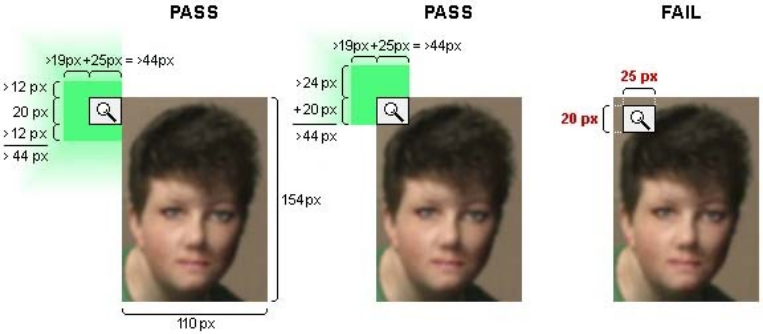
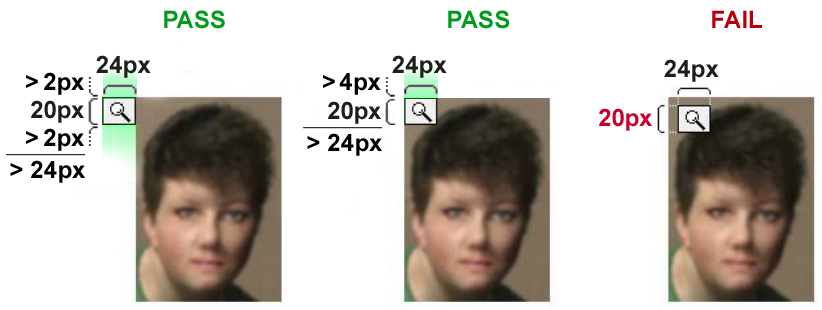
Pointer target spacing update (#1608)
* Update pointer-target-spacing.html

* Updating the intent onwards.

* Delete pointer-target-example1.png

* Delete pointer-target-example2.png

* Delete pointer-target-example3.png

* Delete pointer-target-example4.png

* Delete pointer-target-example5.png

* Add files via upload

* Update pointer-target-spacing.html

* Delete pointer-target-example5.png

* Add files via upload

* Update pointer-target-spacing.html

* Delete pointer-target-example3.png

* Add files via upload

* Update pointer-target-spacing.html

* Update pointer-target-spacing.html

* Delete pointer-target-example4.png

* Add files via upload

* Adding research link

* Updated wrong file

* Adding research link

* Minor editorial from #1456

* Adding detlev's images/captions.

* removed duplicate sentence

Removed duplicate of "The requirement is independent of the zoom factor ..."

* authors -> author's

* Delete pointer-target-example5.png

Replacing image pointer-target-example5.png with an updated version

* update fig ...example5.png

improved version of illustration pointer-target-example5.png

* Updated last example image.

* Update pointer-target-spacing.html

* Update pointer-target-spacing.html

* Update pointer-target-spacing.html

* Update pointer-target-spacing.html

* Update pointer-target-spacing.html

* Pointer target spacing - Wilco update (#1645)

* Wilco's suggestions from survey

* Updating SC file

* Removed nested bullet

* Listing grammar

* Update pointer-target-spacing.html
[…]

diff --git a/understanding/22/pointer-target-spacing.html b/understanding/22/pointer-target-spacing.html
@@ -20,74 +20,72 @@
             <h4>Pointer Target Spacing</h4>
     
             <p class="conformance-level">AA</p>
-            <p class="change">New</p>
+             <p class="change">New</p>
             
-            <p>For each <a href="https://www.w3.org/TR/WCAG21/#dfn-target">target</a>, there is an area with a width and height of at least 44 CSS pixels that includes it, and no other targets, except when:</p>
+            <p><a>Targets</a> have an area of at least 24 by 24 CSS pixels, except if:</p>
             <ul>
-                <li><strong>Enlarge:</strong> A mechanism is available to change the CSS pixel size of each target, or its spacing, so there is an area with a width and height of at least 44 CSS pixels that includes it, and no other targets;</li>
+                <li><strong>Spacing:</strong> The offset between adjacent targets is at least 24 CSS pixels, where the offset is measured from the farthest point of one target to the nearest point of each adjacent target including spacing;</li>
                 <li><strong>Inline:</strong> The target is in a sentence or block of text;</li>
-                <li><strong>User agent:</strong> The size of the target is controlled by the user agent and is not modified by the author;</li>
                 <li><strong>Essential:</strong> A particular presentation of the target is essential to the information being conveyed.</li>
             </ul>
-            <p class="note">This criterion has been formulated to make it less likely that users accidentally hit a target adjacent to the one they intend to hit. The group would like feedback from providers of touch-screen devices if there is another way of forming the criterion to better complement the tap-heuristics used.</p>
-            <p class="note">Are there issues with internationalization when describing inline links?</p>
-            <p class="note">Are there issues with pop-over content overlapping targets triggering failures?</p>
+            <p class="ednote">Are there issues with internationalization when describing inline links?</p>
+            <p class="ednote">Are there issues with pop-over content overlapping targets triggering failures?</p>
         </blockquote>
     </section>
    
     <section id="intent">
         <h2>Intent of Pointer Target Spacing</h2>
 
-        <p>The intent of this Success Criterion is to ensure targets can easily be activated without accidentally activating an adjacent target. When  targets are small, it is difficult for users with hand tremors and those who have difficulty with fine motor movement to activate them accurately. Providing spacing between targets will reduce the likelihood of accidentally activating the wrong control.</p>
+        <p>The intent of this Success Criterion is to ensure targets can easily be activated without accidentally activating an adjacent target. When targets are small, it is difficult for users with hand tremors and those who have difficulty with fine motor movement to activate them accurately. Providing spacing between targets will reduce the likelihood of accidentally activating the wrong control.</p>
 
-        <p>The requirement is for targets that are smaller than 44 x 44px to be included in an area with a width and height of at least 44px each. For the horizontal dimension, this means that the total width of 44px is composed of the width of the target and the width of the spacing that separates it from adjacent targets. The same applies to the height. For example, a target of 24 x 24px would meet the requirement if it had a spacing of 10 px on all sides. If the target is 44 x 44px or larger, no spacing between it and adjacent targets would be required.</p>
+        <p>The requirement is for targets to have at least 24 px offset between them. The offset between targets is the size plus spacing of a target, measured from the nearest point of each adjacent target to the farthest point of the current target. For example, a target of 20 x 20px would meet the requirement if it had a spacing of 2 px on all sides. If the target is 24 x 24px or larger, no spacing between it and adjacent targets would be required.</p>
       
 
         <p>There are three exceptions:</p>
         <ol>
-            <li>If there is a mechanism to change the target sizes or spacing to meet the minimum, such as a button to change the sizes and layout of the targets.</li>
             <li>If the target is inline within a sentence there doesn’t need to be a minimum target size.</li>
+            <li>If one target is entirely enclosed within another target, each target needs to provide a unique target area of at least 24 by 24 CSS pixels.</li>
             <li>If the spacing of the targets is essential to the information being conveyed there doesn’t need to be a minimum target size.</li>
         </ol>
 
-        <p>The requirement is independent of the zoom factor of the page, when users zoom in the CSS pixel size of elements does not change. This means that authors cannot meet it by claiming that the target will have enough spacing or sufficient size if the user zooms into the page.</p>
+        <p>The requirement is independent of the zoom factor of the page; when users zoom in the CSS pixel size of elements does not change. This means that authors cannot meet it by claiming that the target will have enough spacing or sufficient size if the user zooms into the page.</p>
 
-        <p>The requirement does not apply to the spacing of targets inside unstyled native elements. For example, when a default select element is used, the vertical spacing of option elements inside the select's dropdown list is exempt.</p>
+        <p>The requirement does not apply to the spacing of targets inside unstyled native elements. For example, when a default select element is used, the vertical spacing of option elements inside the selects dropdown list is exempt.</p>
 
         <p>While the Success Criterion primarily helps touch users by ensuring that activation with the 'fat finger' will not accidentally trigger adjacent targets, it is also useful for mouse or pen users. It reduces the chances of erroneous activation due to a tremor or some other input imprecision.</p>
       
         <p>As mobile devices generally have internal heuristics to identify which link is closest, spacing can work as effectively as a larger target size.</p>
 
-        <figure id="pointer-target-44x44">
-            <img src="img/pointer-target-example1.png" alt="A series of icons with measures showing they are each 44 by 44 pixels wide and high." />
-            <figcaption>The dimension of each icon target in a row is 44 by 44 CSS pixels, so the targets pass this Success Criterion without additional spacing.</figcaption>
-        </figure>
-
-        <figure id="pointer-target-38x38-spacing">
-            <img src="img/pointer-target-example2.png" alt="A row of icons with measures showing they are each 38 by 38 pixels wide and high, with 6 pixel spacing between them." />
-            <figcaption>The dimension of each icon target in a row is 38 by 38 CSS pixels, so a spacing of 6 CSS pixels is required to arrive at 44 CSS pixels for the combined width and spacing of the target. No adjacent targets are present above and below, i.e., there is sufficient vertical spacing for the height of 38 CSS pixels to be sufficient.</figcaption>
+        <figure id="pointer-target-24x24">
+            <img src="img/pointer-target-example1-full.png" alt="Four rows of icons with measurements, the first three passing,the last failing the requirement." />
+            <figcaption>In the top line of icons, the dimension of each icon target is 44 by 44 CSS pixels with no space in between, amply passing this Success Criterion. In the next row, the dimension of each icon target is 24 by 24 CSS pixels with no space in between, passing this Success Criterion. In the next row, the the same icon targets are only 20 x by 20 CSS pixels but they have 4px space inbetween, passing this Success Criterion. In the last row, the the same icon targets are only 20 x by 20 CSS pixels and have no space inbetween, failing this Success Criterion. </figcaption>
         </figure>
 
         <figure id="pointer-target-44x20-spacing">
-            <img src="img/pointer-target-example3.png" alt="A row of buttons which are more that 44px wide and 20px high. There are no targets above or below." />
-            <figcaption>The widths of the button with adjacent neighbors is at least 44 CSS pixels, while the height is only 22 CSS pixels. The target height combined with the vertical spacing above and below exceeds 44 CSS pixels, therefore, the targets pass this Success Criterion.</figcaption>
+            <img src="img/pointer-target-example3a.png" alt="A row of buttons which are more that 44px wide and 20px high. There are no targets above or below." />
+            <figcaption>The widths of the button with adjacent neighbors is above 24 CSS pixels, while the height is only 22 CSS pixels. However, the target height combined with the vertical spacing above and below exceeds 24 CSS pixels, therefore, the targets pass this Success Criterion.</figcaption>
         </figure>
       
         <figure id="pointer-target-44-20-nospace">
-            <img src="img/pointer-target-example4.png" alt="A row of icons which are 44px wide and 20px high, with other targets above and below with only 2px spacing." />   
-            <figcaption><strong>Fail:</strong> Two rows of buttons, all with a height of only 20 CSS pixels. In the top row, buttons all have a width of more than 44 CSS pixels. For the top row, targets above and below are in close proximity. The top spacing of the first row is 4 px while the bottom spacing is 2 px, which adds up to 26 px for target height and vertical spacing combined. Therefore, the buttons in the top row fail the Success Criterion. The button "Pop" in the second row is only 32px wide with no horizontal spacing, so it also fails the Success Criterion even when there is sufficient space below to meet the vertical spacing requirement.</figcaption>
+            <img src="img/pointer-target-example4a.png" alt="A row of buttons only 20 px high, with other targets flush below, and only 2px spacing above." />   
+            <figcaption><strong>Fail:</strong> Two rows of buttons, all with a height of only 20 CSS pixels. In the top row, buttons all have sufficient width (above 24px). For the top row, targets below are flush, with no gap. The gap to the links above is only 2px wide. Therefore, the buttons in the top row fail the Success Criterion. </figcaption>
+        </figure>
+      
+        <figure id="pointer-target-dropdown">
+            <img src="img/pointer-target-example4.jpg" alt="A dropdown menu - a pass example with menu items 24 px high, and a fail example with menu items only 20 px high." />   
+            <figcaption>A dropdown menu is shown. The PASS example has menu items which are 24 px high. In the FAIL example, the menu items are only 20 px high.</figcaption>
         </figure>
 
         <p>Where targets are embedded inside other targets, the inner target either needs a size of at least 44 x 44 CSS pixels or must be placed at the edge or corner to make sure that there is sufficient adjacent spacing in each dimension.</p>
 
         <figure id="pointer=target-embedded">
-            <img src="img/pointer-target-example5.png" alt="Three examples of a target adjacent to another target (see legend below)" />
-            <figcaption>Three examples of a person's profile image, which is supposed to be a target leading to another page, and a magnifying glass icon, which is supposed to open a lightbox view of the profile image. In the first example, the magnifying icon is outside the picture and passes. In the second example, the icon overlaps with the top-left corner of the image, but passes due to sufficient spacing top and left. In the third example, the icon sits inside the linked image. Since it is surrounded by an active click area, the icon target is not large enough to pass the success criterion.</figcaption>
-        </figure>
+            <img src="img/pointer-target-example5.png" alt="Three examples of a target adjacent to, or nested within another target (see legend below)" />
+          <figcaption>Three examples of a person's profile image, which is supposed to be a target leading to another page, and a magnifying glass icon, which is supposed to open a lightbox view of the profile image. In the first example, the magnifying icon is outside the picture with sufficient spacing and passes. In the second example, the icon overlaps with the top-left corner of the image, but passes due to sufficient spacing top and left. In the third example, the icon sits inside the linked image. Since it is surrounded by an active click area, the icon target is not large enough to pass the Success Criterion.</figcaption>
+      </figure>
       
         <p>Users with different disabilities have different needs for control sizes. It can be beneficial to provide an option to increase the active target area without increasing the visible target size. Another option is to provide a mechanism to control the density of layout and thereby change target size or spacing, or both. This can be beneficial for a wide range of users. For example, users with visual field loss may prefer a more condensed layout with smaller sized controls while users with other forms of low vision may prefer large controls.</p>
       
-      <p>Where user-agents control the size of a target, such as the options in a <code>select</code> drop-down, and the author has not tried to change the size of target with size or padding adjustments, the target is exempted from this criterion. It would be beneficial for users if the minimum size &amp; spacing requirement is met, but where the user-agent has defined the target it is not the authors responsibility.</p>
+      <p>Where user-agents control the size of a target, such as the options in a <code>select</code> drop-down, and the author has not changed the size of target with size or padding adjustments, the target is exempted from this criterion. It would be beneficial for users if the minimum size &amp; spacing requirement is met, but where the user-agent has defined the target it is not the author's responsibility.</p>
         
         
     </section>
@@ -109,13 +107,20 @@
         <h2>Examples of Pointer Target Spacing</h2>
 
         <ul>
-            <li>Three buttons are on-screen and the target area of each button is 44 by 44 CSS pixels. Since the target size itself is 44 x 44 px, no additional spacing is required, the Success Criterion passes.</li>
-            <li>A row of buttons, each of which has a horizontal width of more than 44 px, but a height of only 30 px. Since there is sufficient spacing above and below the row of buttons, the Success Criterion passes.</li>
-            <li>Links within a paragraph of text have varying target dimensions. Links within paragraphs of text do not need to meet the 44 by 44 CSS pixels requirements, so the Success Criterion passes.</li>
+            <li>Three buttons are on-screen and the target area of each button is 24 by 24 CSS pixels. Since the target size itself is 24 x 24 px, no additional spacing is required, the Success Criterion passes.</li>
+            <li>A row of buttons, each of which has a horizontal width of more than 50px, but a height of only 20 px. Since there is sufficient spacing above and below the row of buttons, the Success Criterion passes.</li>
+            <li>Links within a paragraph of text have varying target dimensions. Links within paragraphs of text do not need to meet the 24 by 24 CSS pixels requirements, so the Success Criterion passes.</li>
         </ul>
    </section>
-
    
+   <section id="resources">
+
+        <h2>Resources</h2>
+        <ul>
+            <li><a href="https://dl.acm.org/doi/10.1145/1152215.1152260">Target size study for one-handed thumb use on small touchscreen devices</a></li>
+        </ul>
+    </section>
+
    <section id="techniques">
       <h2>Techniques for Pointer Target Spacing</h2>
       
@@ -143,11 +148,6 @@
       </section>
       
    </section>
-   <section id="resources">
-        <h2>Resources</h2>
-
-
-    </section>
    
 </body>
 </html>

diff --git a/guidelines/sc/22/pointer-target-spacing.html b/guidelines/sc/22/pointer-target-spacing.html
@@ -5,15 +5,11 @@
     <p class="conformance-level">AA</p>
 	<p class="change">New</p>
     
-    <p>For each <a>target</a>, there is an area with a width and height of at least 44 CSS pixels that includes it, and no other targets, except when:</p>
+    <p><a>Targets</a> have an area of at least 24 by 24 CSS pixels, except if:</p>
     <ul>
-      <li><strong>Enlarge:</strong> A <a>mechanism</a> is available to change the CSS pixel size of each target, or its spacing, so there is an area with a width and height of at least 44 CSS pixels that includes it, and no other targets;</li>
+        <li><strong>Spacing:</strong> The offset between adjacent targets is at least 24 CSS pixels, where the offset is measured from the farthest point of one target to the nearest point of each adjacent target including spacing;</li>
         <li><strong>Inline:</strong> The target is in a sentence or block of text;</li>
-        <li><strong>User agent:</strong> The size of the target is controlled by the <a>user agent</a> and is not modified by the author;</li>
         <li><strong>Essential:</strong> A particular presentation of the target is essential to the information being conveyed.</li>
     </ul>
-    <p class="note">This criterion has been formulated to increase the hit-area of small targets, but the group would like feedback from providers of touch-screen devices if there is another way of forming the criterion to better complement the tap-heuristics used.</p>
-    <p class="note">Are there issues with internationalization when describing inline links?</p>
-    <p class="note">Are there issues with pop-over content overlapping targets triggering failures?</p>
-    
- </section>
+
+</section>	

diff --git a/understanding/22/redundant-entry.html b/understanding/22/redundant-entry.html
@@ -62,7 +62,6 @@
       </ul>
       
    </section>
-
    
    <section id="techniques">
       <h2>Techniques for Redundant Entry</h2>
